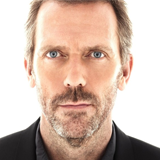
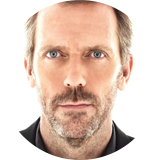
Integration du design + OK

diff --git a/assets/css/style.css b/assets/css/style.css
@@ -81,6 +81,7 @@ select {
 /*
    ==========================================================================
    ========================================================================== */
+ 
 section {
     float: left;
 }
@@ -89,17 +90,23 @@ section {
     width: 10%;
     height: 1980px;
     background: #fff;
+    text-align: center;
     border-right: 2px solid #5ca0d4;
     z-index: 10;
 }
  
- 
 #menu ul li { 
     width: 90%;
-    height: 50px;
+    min-height: 50px;
+    padding-bottom: 10px;
     text-align: left;
     margin: 32px auto;
+    border-bottom: 2px solid #aee;
     list-style: none;
+}
+ 
+#menu ul li h3 {    
+    margin-bottom: 5px;
 }
  
 #menu ul li h3:hover {  
@@ -107,14 +114,19 @@ section {
     cursor: pointer;
 }
  
-#menu #id { 
+#menu #id img { 
     width: 100px;
     height: 100px;
     border-radius: 50%;
     margin: 20px auto 0 auto;
-    border: 2px solid #5ca0d4;
-    background: url('../img/id.png') no-repeat center;
-    background-size: cover;
+}
+ 
+.red {
+    border: 4px solid #e74c3c;
+}
+ 
+.green {
+    border: 4px solid #2ecc71;
 }
  
 #main {
@@ -137,6 +149,18 @@ section {
 #recherche {
     width: 560px;
     margin: auto;
+}
+ 
+.tag {
+    opacity: .5;
+}
+ 
+.tag span {
+    font-weight: 600;
+}
+ 
+.tag:hover {
+    opacity: 1;
 }
  
 .search {
@@ -167,8 +191,9 @@ input[type="submit"]:hover  {
     padding-top: 20px;
     cursor: pointer;
     color: rgba(0, 0, 0, .5);
-    opacity: .7;
+    opacity: .5;
 }
+ 
 .filtre:hover { 
     color:#2dc6d6;
     opacity: 1;
@@ -198,8 +223,6 @@ input[type="submit"]:hover  {
     background: url('../img/conf.png') no-repeat 50% 0%;
     background-size: 30%;
 }
- 
- 
  
 #test {
     width: 100px;
@@ -262,6 +285,7 @@ input[type="submit"]:hover  {
     bottom: 20px;
     position: absolute;
 }
+ 
 #figcaption {
     margin-top: 10px;
 }
@@ -274,12 +298,11 @@ input[type="submit"]:hover  {
     border: 2px solid #d7dddd;
     background: rgba(255, 255, 255, .5);
 }
+ 
 #texttag {
     width: 10%;
     height: 30px;
-     
     color: rgba(0, 0, 0, .5);
-     
     border: 2px solid #d7dddd;
     background: rgba(255, 255, 255, .5);
 }
@@ -300,10 +323,12 @@ input[type="submit"]:hover  {
     vertical-align: middle;
     color: rgba(0, 0, 0, .5);
 }
+ 
 .contact {
     margin: 200px auto;
     width: 100%;
 }
+ 
 .picture {
     width: 50px;
     height: 50px;
@@ -333,30 +358,32 @@ input[type="submit"]:hover  {
     display: none;
     position: fixed;
     z-index: 999;
-    width: 90%;
+    width: 69%;
     height: 100%;
     margin-left: 10%;
     text-align: left;
     top: 0;
     left: 0;
+    border-right: 1px solid #5ca0d4;
+    border-left: 1px solid #5ca0d4;
     background: rgba(255, 255, 255, .9);
 }
  
 .modal #pop {
-    width: 100%;
+    width: 69%%;
     min-height: 400px;
     position: fixed;
     font-size: 10pt;
     color: rgba(0,0,0,.8);
     background: #e3e8e9;
-    border-bottom: 2px solid #5ca0d4;
+    border-bottom: 1px solid #5ca0d4;
 }
  
 .modal #pop img{
     margin-bottom: 20px;
     float: right;
     border: 4px solid #fff;
-    margin-right: 20%;
+    margin-right: 5%;
 }
  
 .modal:target {
@@ -365,7 +392,7 @@ input[type="submit"]:hover  {
 }
 .popHead {
     width: 90%;
-    heigt: auto;
+    height: auto;
     margin: 20px auto auto 20px;
 }
 .close {
@@ -387,7 +414,7 @@ input[type="submit"]:hover  {
     height: 70px;
     padding-left: 70px;
     display: inline-block;
-    background:rgba(255,255,255, .5) url('../img/profiles/avatar.png') no-repeat 3% 50%;
+    background:rgba(255,255,255, .5) url('../img/avatar.png') no-repeat 3% 50%;
     background-size: 20%;
 }
  

diff --git a/views/header.html.php b/views/header.html.php
@@ -9,19 +9,47 @@
 		<link href='http://fonts.googleapis.com/css?family=Lato:100,300,400,700,900,100italic,300italic,400italic,700italic,900italic' rel='stylesheet' type='text/css'>
 		<script src="http://localhost/assets/js/jquery.js"></script>
 	</head>
+
 	<body>
+
 	<section id="menu">
-		<div id="id"></div>
+		<div id="id" >
+			<?php if(getUser()->connect) { ?>
+				<img id="main_photo" src="http://localhost/assets/img/<?= getUser()->photo ?>" class="green">
+			<?php } else { ?>
+				<img id="main_photo" src="http://localhost/assets/img/<?= getUser()->photo ?>" class="red">
+			<?php } ?>
+		</div>
 		<nav>
 			<ul>
-				<li><span>#</span><h3>Diabetes</h3></li>
-				<li><span>#</span><h3>Tumer</h3></li>
-				<li><span>#</span><h3>Neurosurgery</h3></li>
-				<li><span>#</span><h3>Inovation</h3></li>
-			</ul>
+				<li class="tag"><h3>#Diabetes</h3>
+					<p>Subjects : <span>3</span></p>
+					<p>Membres : <span>10</span></p>
+					<p>Messages : <span>50</span></p>
+				</li>
+				
+				<li class="tag"><h3>#Tumer</h3>
+					<p>Subjects : <span>3</span></p>
+					<p>Membres : <span>10</span></p>
+					<p>Messages : <span>50</span></p>
+				</li>
+				
+				<li class="tag"><h3>#Neurosurgery</h3>
+					<p>Subjects : <span>3</span></p>
+					<p>Membres : <span>10</span></p>
+					<p>Messages : <span>50</span></p>
+				</li>
+				
+				<li class="tag"><h3>#Innovation</h3>
+					<p>Subjects : <span>3</span></p>
+					<p>Membres : <span>10</span></p>
+					<p>Messages : <span>50</span></p>
+				</li>
+			</ul>			
 		</nav>
 	</section>
-	<section id="main">
+	`
+	<section id="main">	
 		<div id="top">		
 			<div class="filtre" id="home">All</div>
  			<div class="filtre" id="case">Second Opinion</div>
@@ -29,7 +57,9 @@
 			<div class="filtre" id="event">Events</div>
 			<div class="filtre" id="home">Technology</div>		
 		</div>
+		
 		<form id="recherche">
 			<input class="search" placeholder="&#124;" required>
 			<input type="submit" value="Search">
 		</form>	
+		

diff --git a/views/footer.html.php b/views/footer.html.php
@@ -50,6 +50,9 @@
 		$("#id").click(function(){
 			$.get( "http://localhost/index.php/User/connect", function( data ) {
 				console.log("OK");
+				$("#main_photo").toggleClass("green");
+				$("#main_photo").toggleClass("red");
+
 			});
 		});
 		setInterval(updateUserList,500);

diff --git a/views/index.html.php b/views/index.html.php
@@ -91,7 +91,7 @@ function checkNotif() {
 }
 
 function removeNotif() {
-	$.post(urlRemoveNotif,{id:lastId}, function() {
+	$.post(urlRemoveNotif,{id:lastNotifId}, function() {
 	window.location.href= 'http://localhost/';
 	});
 }
